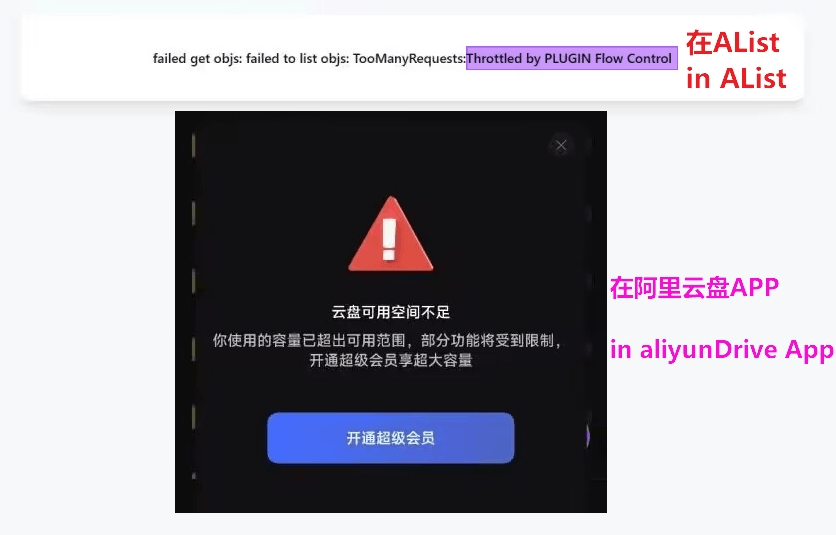
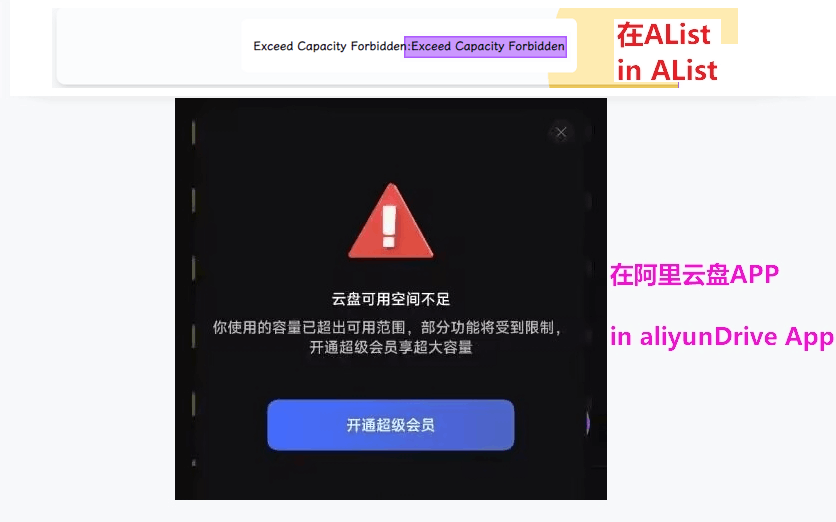
fix ali_open error_code

diff --git a/docs/guide/drivers/aliyundrive_open.md b/docs/guide/drivers/aliyundrive_open.md
@@ -46,7 +46,7 @@ typeof fetch !== "undefined" && getLimit()
     - For example, it is counted as a request when ~~saving/editing~~, and viewing files and watching video downloads is not counted.
     - The number of times and time mentioned above are dynamic~
     - New optimization:  **will only refresh the token when the request finds that the token is expired, update restart editing if the token is still valid will not refresh.**
-5.  Online playback video reminder: **`Throttled by PLUGIN Flow Control`** error, the capacity exceeds restrictions, implements restrictions, needs to be expanded or deleted unnecessary file saving space to save space,[View details](#four、)
+5.  Online playback video reminder: **`ExceedCapacityForbidden`** error, the capacity exceeds restrictions, implements restrictions, needs to be expanded or deleted unnecessary file saving space to save space,[View details](#four、)
 
 :::
 
@@ -129,7 +129,7 @@ If the server you deploy AList on is Aliyun ECS for Beijing area, turn on this s
 
 ##### Four、
 
->Q：Unable to play Alibaba Cloud disk video online, prompt:  **` Throttled by PLUGIN Flow Control`** error
+>Q：Unable to play Alibaba Cloud disk video online, prompt:  **`ExceedCapacityForbidden`** error
 >
 >A：**User capacity exceeded**, playback restricted, need to expand or delete unnecessary files to free up space,The prompts of the Alist and Alibaba Cloud Drive APP are as shown below
 >

diff --git a/docs/zh/guide/drivers/aliyundrive_open.md b/docs/zh/guide/drivers/aliyundrive_open.md
@@ -46,7 +46,7 @@ typeof fetch !== "undefined" && getLimit()
    - 例如在 ~~保存/编辑 的时候算一次请求~~，查看文件看视频下载不算。
    - 上述的分钟和次数是动态的喔~
    - 新增优化：**只会在请求发现令牌过期时去刷新令牌，更新 重启 编辑如果令牌仍然有效则不会去刷新。**
-5.  在线播放视频提示：**`Throttled by PLUGIN Flow Control`** 错误，容量超限限制播放，需要扩容或者删除不必要的文件释放空间,[查看详情](#四、)
+5.  在线播放视频提示：**`ExceedCapacityForbidden`** 错误，容量超限限制播放，需要扩容或者删除不必要的文件释放空间,[查看详情](#四、)
 
 :::
 
@@ -132,7 +132,7 @@ typeof fetch !== "undefined" && getLimit()
 
 ##### 四、
 
->Q：在线播放阿里云盘视频无法播放，提示：**`Throttled by PLUGIN Flow Control`** 错误
+>Q：在线播放阿里云盘视频无法播放，提示：**`ExceedCapacityForbidden`** 错误
 >
 >A：**用户容量超限**，限制播放，需要扩容或者删除不必要的文件释放空间，在AList和阿里云盘官方APP分别如下图提示
 >

diff --git a/docs/guide/install/docker.md b/docs/guide/install/docker.md
@@ -138,4 +138,4 @@ Q: My version is v3.x.x and I cannot upgrade to the latest version. `docker pull
 A: The reason is that your docker has set up a mirror, and the latest version cannot be updated from the mirror, so modify /etc/docker/daemon.json and delete "registry-mirrors": ["mirror accelerator address"]
 
 - If deletion doesn’t work, you can consider replacing it with a `mirror acceleration address`
-- Or simple and rude: when downloading, replace `xhofe/alist: ==latest==` with `xhofe/alist: ==v3.16.3==` (specify the version, the latest when writing the tutorial is 3.16.3)
+- Or simple and rude: when downloading, replace `xhofe/alist:latest` with `xhofe/alist:v3.16.3` (specify the version, the latest when writing the tutorial is 3.16.3)

diff --git a/docs/zh/guide/install/docker.md b/docs/zh/guide/install/docker.md
@@ -143,4 +143,4 @@ Q：我的版本是v3.x.x 怎么也升级不到最新版 `docker pull xhofe/alis
 A：原因是你的docker设置了镜像，从镜像更新不到最新版本，改一下/etc/docker/daemon.json，删除"registry-mirrors": ["镜像加速器地址"]
 
 - 删除若不行，可以考虑更换一个`镜像加速地址`
-- 或者简单粗暴：下载时将`xhofe/alist: ==latest== `替换为`xhofe/alist: ==v3.16.3==`（指定版本，写教程时最新的是3.16.3）
+- 或者简单粗暴：下载时将`xhofe/alist:latest` 替换为`xhofe/alist:v3.16.3`（指定版本，写教程时最新的是3.16.3）

diff --git a/docs/faq/error.md b/docs/faq/error.md
@@ -35,7 +35,7 @@ It is some error codes during the use of `AList`, and how to solve them (network
 
 -----
 
-<Badge text="Q" type="warning" vertical="middle" />：Ali cloud disk open appears **Throttled by PLUGIN Flow Control** 
+<Badge text="Q" type="warning" vertical="middle" />：Ali cloud disk open appears **ExceedCapacityForbidden** 
 
 <br/>
 

diff --git a/docs/zh/faq/error.md b/docs/zh/faq/error.md
@@ -35,7 +35,7 @@ star: true
 
 -----
 
-<Badge text="Q" type="warning" vertical="middle" />：阿里云盘open出现 **Throttled by PLUGIN Flow Control** 
+<Badge text="Q" type="warning" vertical="middle" />：阿里云盘open出现 **ExceedCapacityForbidden** 
 
 <br/>
 
